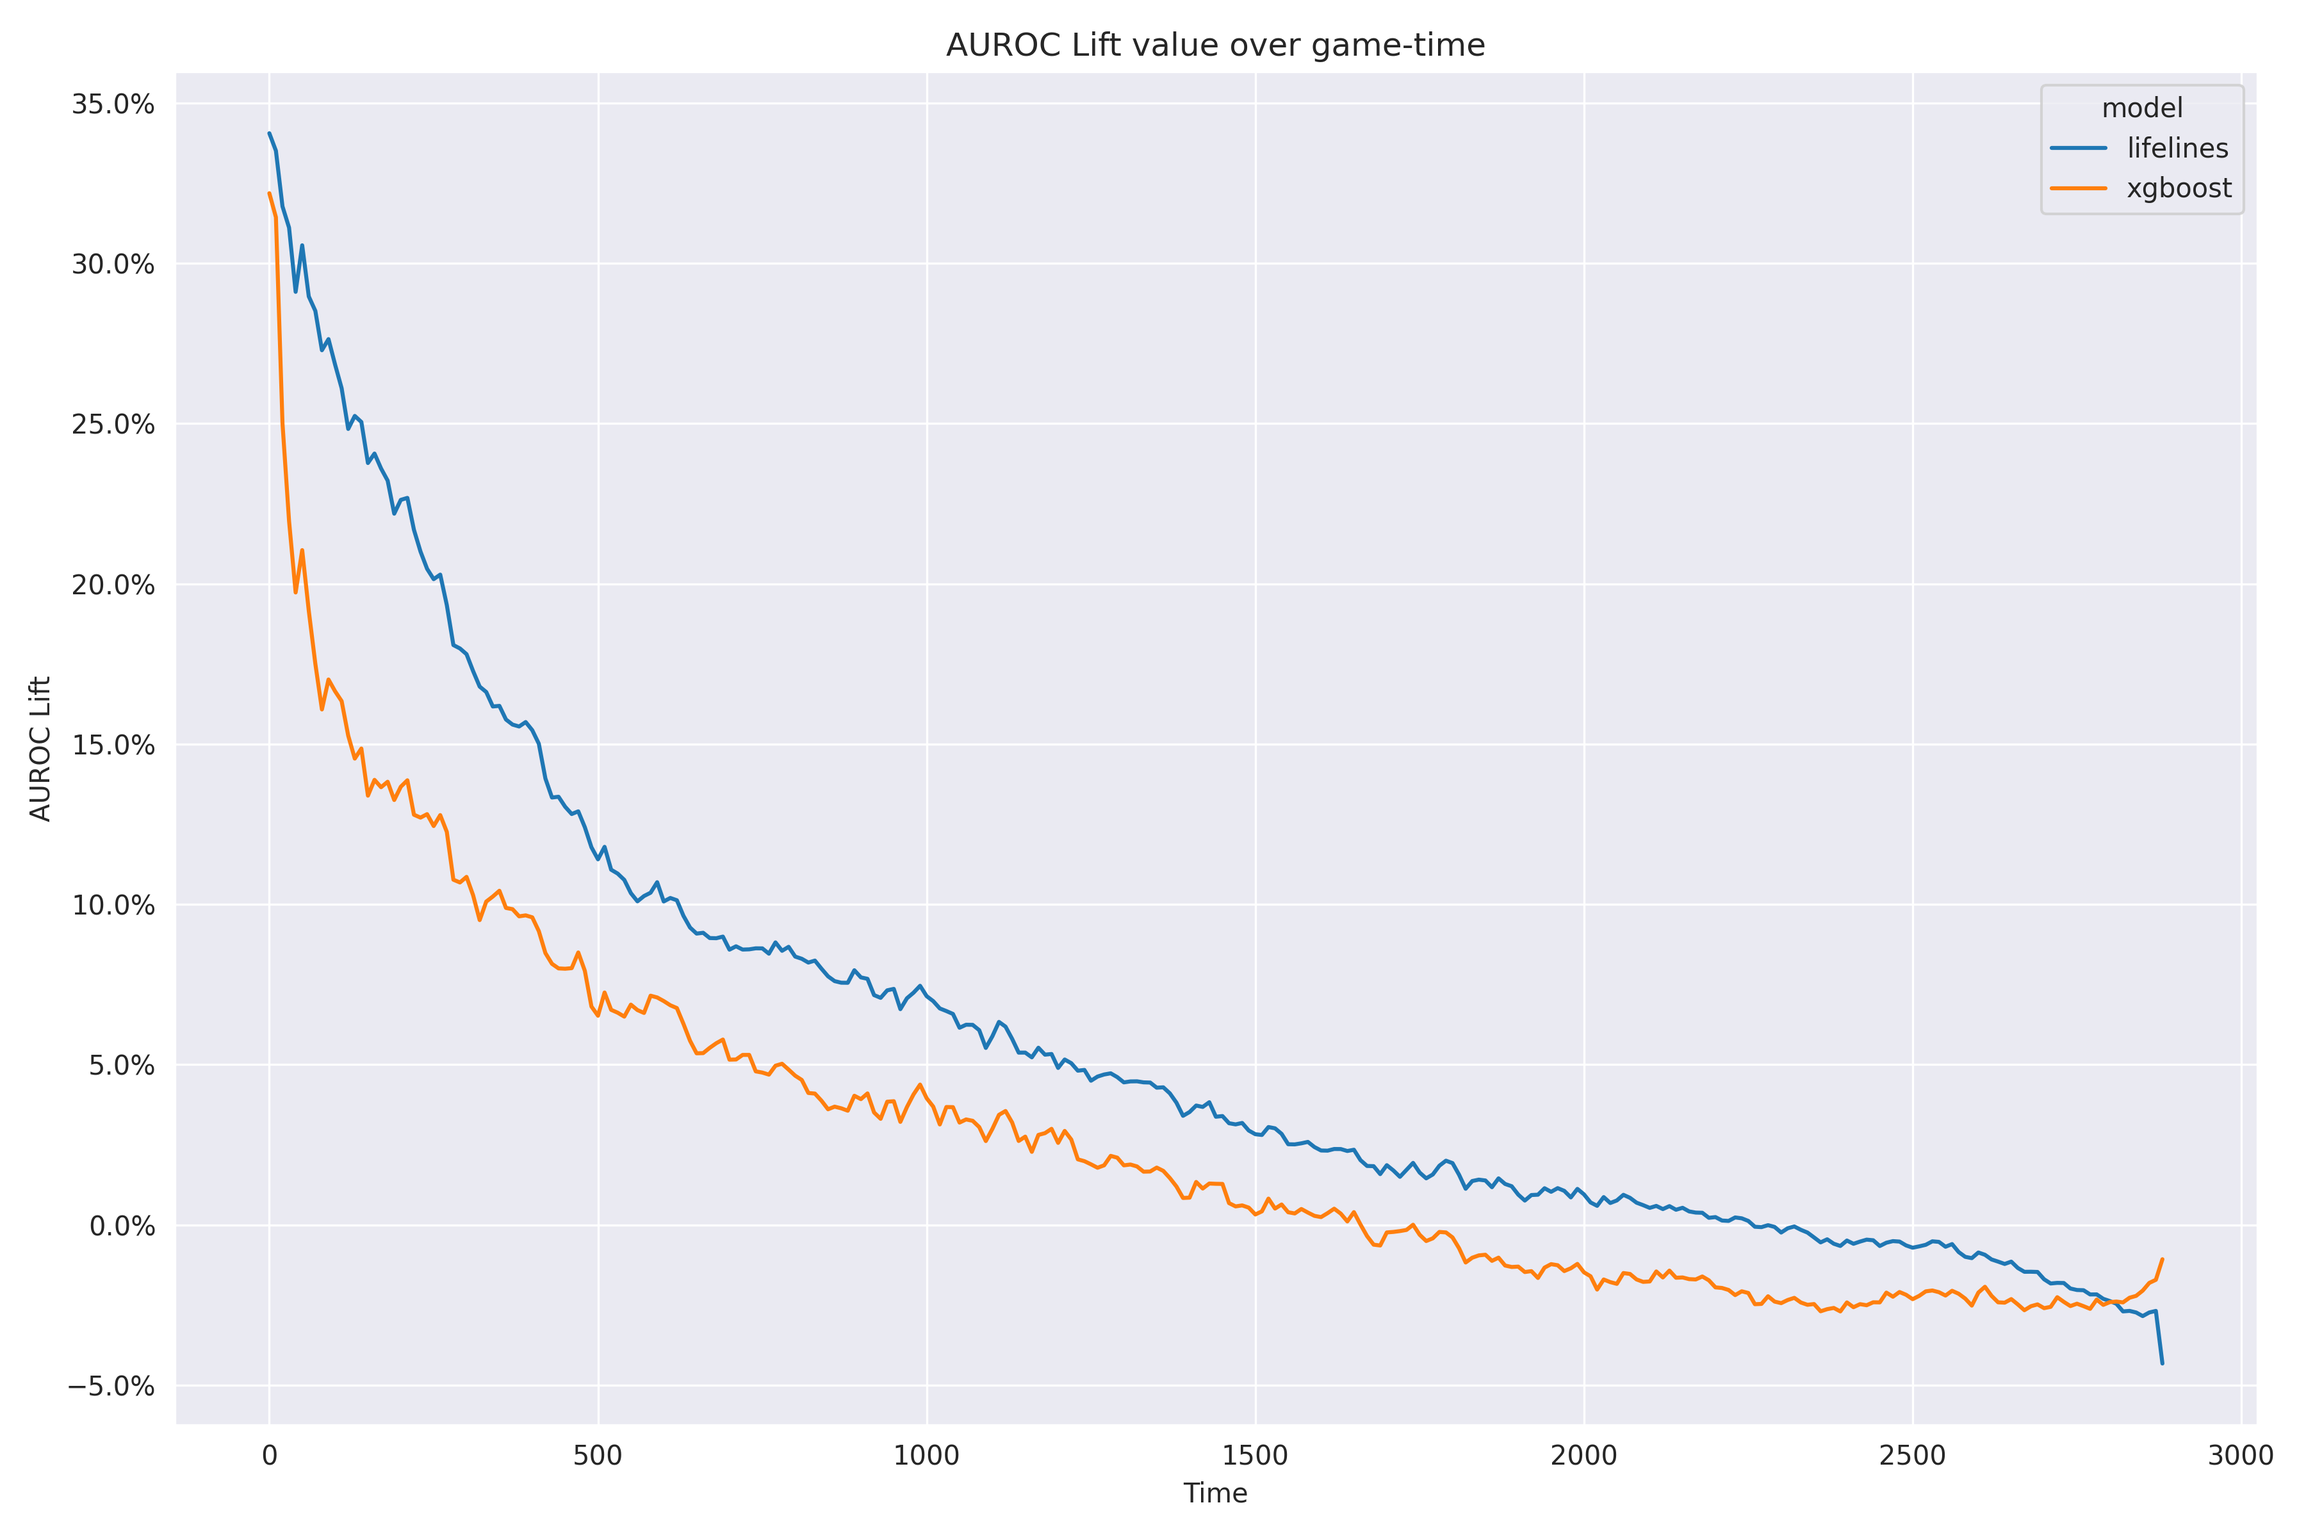
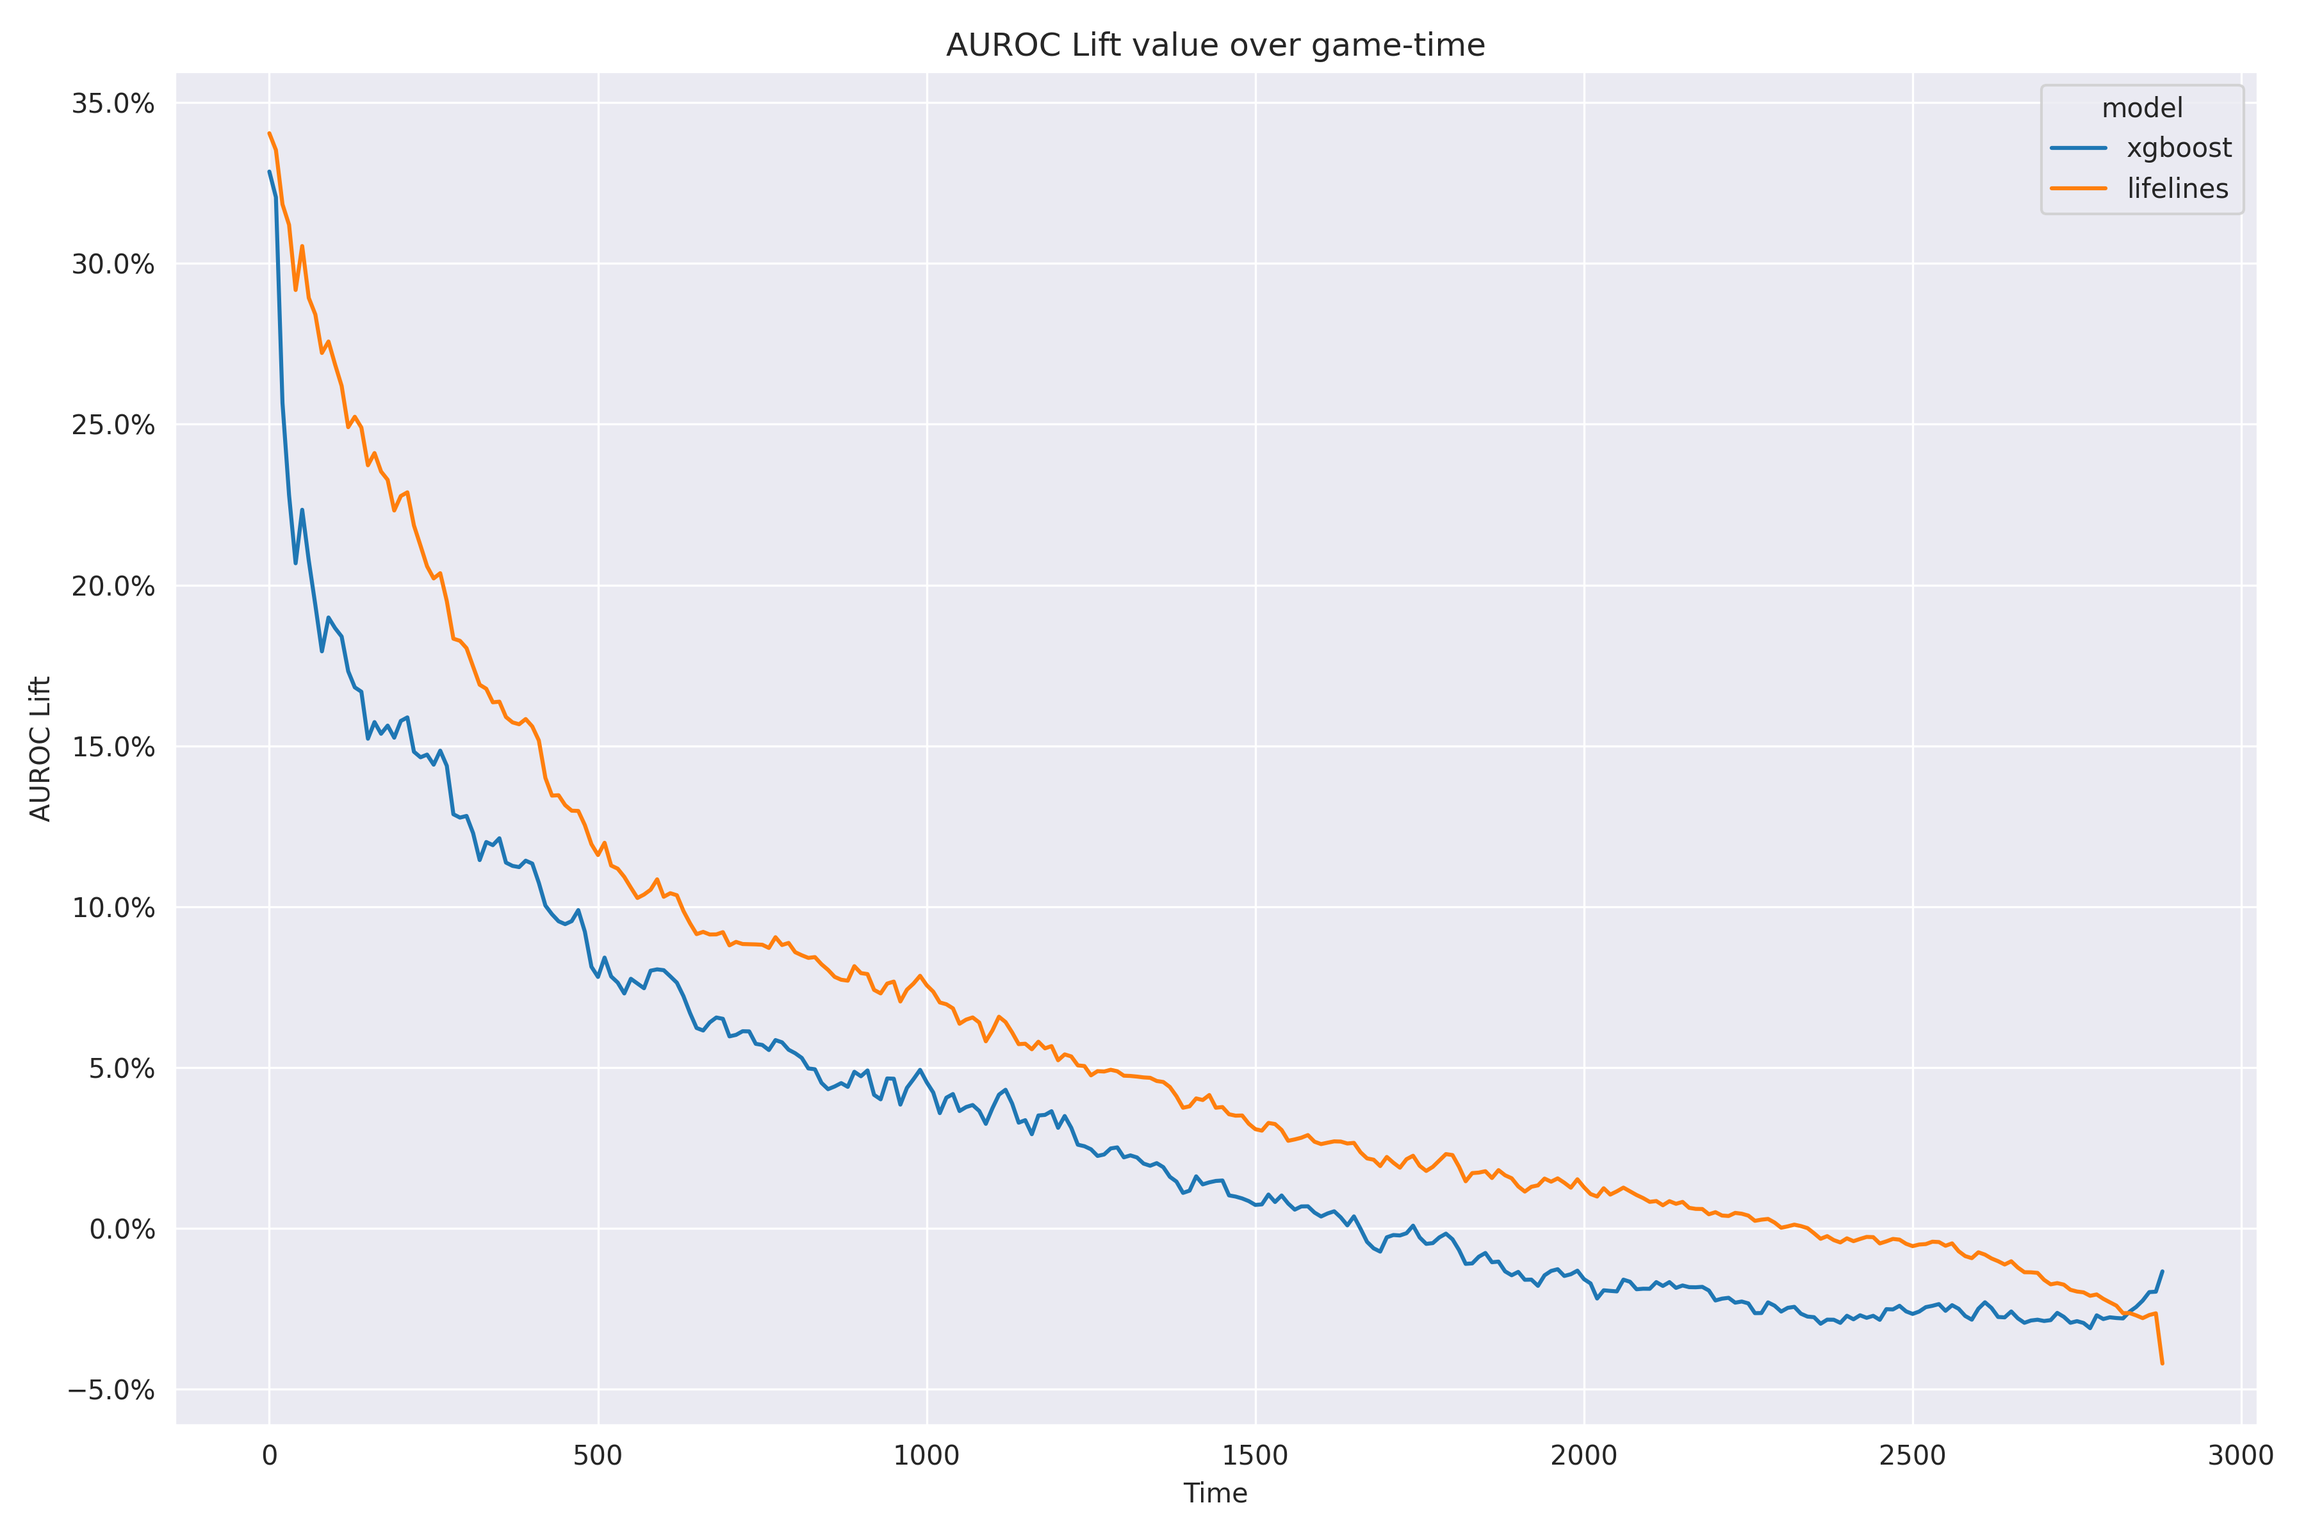
Fixing the calibration (#26)
* Adjusting the calibration to use the last row of the training data

* Fixing the calibration - using tuning-data style mapping to get accurate calibration curves

* Updating the XGBoost pipeline and reducing the hyperparameter tuning rounds

* Updating docs after final model fit

* Fixing static typing error

diff --git a/nbaspa/model/pipeline.py b/nbaspa/model/pipeline.py
@@ -119,6 +119,7 @@ def gen_lifelines_pipeline() -> Flow:
     # Create a time range for AUROC calculation -- start to the end of the fourth quarter
     times = np.arange(2890, step=10)
     # Initialize tasks
+    calib_data = CollapseData(name="Create calibration data")
     tune_data = CollapseData(name="Create tuning data")
     tuning = LifelinesTuning(
         name="Run lifelines hyperparameter tuning",
@@ -182,6 +183,7 @@ def gen_lifelines_pipeline() -> Flow:
         rawtune = load_df(data_dir=data_dir, dataset="tune.csv")
         # Collapse the data to the final row for Concordance calculations
         tune = tune_data.map(data=unmapped(rawtune), timestep=times)
+        calib_input = calib_data.map(data=unmapped(train), timestep=times)
         # Run hyperparameter tuning
         params = tuning(
             train_data=train, tune_data=tune, max_evals=max_evals, seed=seed
@@ -190,7 +192,7 @@ def gen_lifelines_pipeline() -> Flow:
         tuneplots(params["trials"])
         model_obj = model(params["best"])
         trained_model = trained(model=model_obj, data=train)
-        sprob = calc_sprob(model=trained_model, data=train)
+        sprob = calc_sprob.map(model=unmapped(trained_model), data=calib_input)
         iso = cal(train_data=sprob)
         _ = pcal(data=sprob, calibrator=iso)
 
@@ -212,6 +214,7 @@ def gen_xgboost_pipeline() -> Flow:
     # Create a time range for AUROC calculation -- start to the end of the fourth quarter
     times = np.arange(2890, step=10)
     # Initialize tasks
+    calib_data = CollapseData(name="Create calibration data")
     train_data = CollapseData(name="Create training data")
     tune_data = CollapseData(name="Create tuning data")
     stop_data = CollapseData(name="Create stopping data")
@@ -290,6 +293,7 @@ def gen_xgboost_pipeline() -> Flow:
         train = train_data(rawtrain)
         tune = tune_data.map(data=unmapped(rawtune), timestep=times)
         stop = stop_data(rawtune)
+        calib_input = calib_data.map(data=unmapped(rawtrain), timestep=times)
         # Run hyperparameter tuning
         params = tuning(
             train_data=train,
@@ -315,7 +319,7 @@ def gen_xgboost_pipeline() -> Flow:
         shap_values = calcshap(model=model, train_data=train)
         _ = plotshap(shap_values=shap_values)
         # Calibrate
-        sprob = calc_sprob(model=model, data=train)
+        sprob = calc_sprob.map(model=unmapped(model), data=calib_input)
         iso = cal(train_data=sprob)
         _ = pcal(data=sprob, calibrator=iso)
 

diff --git a/nbaspa/model/tasks/calibration.py b/nbaspa/model/tasks/calibration.py
@@ -1,5 +1,7 @@
 """Tasks for model calibration."""
 
+from typing import Union, List
+
 import pandas as pd
 from prefect import Task
 from sklearn.isotonic import IsotonicRegression
@@ -10,7 +12,9 @@ from .meta import META
 class CalibrateClassifier(Task):
     """Calibrate the classifier with ``IsotonicRegression``."""
 
-    def run(self, train_data: pd.DataFrame) -> IsotonicRegression:  # type: ignore
+    def run(  # type: ignore
+        self, train_data: Union[List[pd.DataFrame], pd.DataFrame]
+    ) -> IsotonicRegression:
         """Calibrate the classifier.
 
         Parameters
@@ -23,6 +27,8 @@ class CalibrateClassifier(Task):
         IsotonicRegression
             The fitted calibrator.
         """
+        if isinstance(train_data, list):
+            train_data = pd.concat(train_data, ignore_index=True)
         iso = IsotonicRegression(y_min=0, y_max=1, out_of_bounds="clip")
         iso.fit(train_data[META["survival"]], train_data[META["event"]])
 

diff --git a/nbaspa/model/tasks/visualization.py b/nbaspa/model/tasks/visualization.py
@@ -1,6 +1,6 @@
 """Create simple visualizations."""
 
-from typing import List, Optional
+from typing import List, Optional, Union
 
 from hyperopt import Trials
 import matplotlib.pyplot as plt
@@ -194,7 +194,7 @@ class PlotCalibration(Task):
 
     def run(  # type: ignore
         self,
-        data: pd.DataFrame,
+        data: Union[List[pd.DataFrame], pd.DataFrame],
         calibrator: IsotonicRegression,
     ):
         """Create a calibration curve.
@@ -211,6 +211,8 @@ class PlotCalibration(Task):
         Figure
             The matplotlib Figure object.
         """
+        if isinstance(data, list):
+            data = pd.concat(data, ignore_index=True)
         # Get the calibration curve for the raw model
         uncal_x, uncal_y = calibration_curve(
             data[META["event"]], data[META["survival"]], n_bins=10

diff --git a/nbaspa/model/tasks/tuning.py b/nbaspa/model/tasks/tuning.py
@@ -29,7 +29,7 @@ DEFAULT_XGBOOST_SPACE: Dict = {
     "reg_alpha": hp.uniform("reg_alpha", 0.6, 1),
     "reg_lambda": hp.uniform("reg_lambda", 0.25, 0.75),
     "colsample_bytree": hp.uniform("colsample_bytree", 0.5, 1),
-    "colsample_bylevel": hp.uniform("colsample_bylevel", 0.8, 1),
+    "colsample_bylevel": 1,
     "colsample_bynode": hp.uniform("colsample_bynode", 0, 0.5),
     "min_child_weight": hp.quniform("min_child_weight", 510, 530, 1),
     "monotone_constraints": str(

diff --git a/docs/_model/performance.rst b/docs/_model/performance.rst
@@ -8,7 +8,7 @@ Overview
 
 * Both models perform better (on average) than the NBA's model, with a particular advantage in
   early game prediction.
-* The Lifelines model far outperforms the XGBoost model.
+* The Lifelines model outperforms the XGBoost model.
 
 For generating player ratings, we will use the Lifelines model.
 
@@ -41,9 +41,9 @@ Overall, the average AUROC lift for each model is summarized below:
 | Model     | Average AUROC | Percentage lift over NBA model |
 |           |               |                                |
 +===========+===============+================================+
-| XGBoost   | 0.822         | 2.863%                         |
+| XGBoost   | 0.808         | 3.3%                           |
 +-----------+---------------+--------------------------------+
-| Lifelines | 0.845         | 6.102%                         |
+| Lifelines | 0.831         | 6.315%                         |
 +-----------+---------------+--------------------------------+
 
 ---------------------
@@ -67,45 +67,10 @@ Tuning led to the following final hyperparameters:
 | Hyperparameter | Value                |
 |                |                      |
 +================+======================+
-| ``l1_ratio``   | 0.007837377210952526 |
+| ``l1_ratio``   | 0.007994777879269076 |
 +----------------+----------------------+
-| ``penalizer``  | 0.09388117587887976  |
+| ``penalizer``  | 0.09127606625097757  |
 +----------------+----------------------+
-
-with the following variable coefficients:
-
-+----------------------------------+---------------+
-| Variable                         | Coefficient   |
-|                                  |               |
-+==================================+===============+
-| ``SCOREMARGIN``                  | 6.059660e-03  |
-+----------------------------------+---------------+
-| ``HOME_LINEUP_PLUS_MINUS``       | -6.037603e-08 |
-+----------------------------------+---------------+
-| ``VISITOR_LINEUP_PLUS_MINUS``    | -3.438323e-07 |
-+----------------------------------+---------------+
-| ``HOME_NET_RATING``              | 3.071953e-03  |
-+----------------------------------+---------------+
-| ``VISITOR_NET_RATING``           | -2.805900e-03 |
-+----------------------------------+---------------+
-| ``HOME_W_PCT``                   | 4.033127e-02  |
-+----------------------------------+---------------+
-| ``VISITOR_W_PCT``                | -4.164156e-02 |
-+----------------------------------+---------------+
-| ``LAST_GAME_WIN``                | 9.586388e-03  |
-+----------------------------------+---------------+
-| ``HOME_GAMES_IN_LAST_3_DAYS``    | -1.518382e-05 |
-+----------------------------------+---------------+
-| ``VISITOR_GAMES_IN_LAST_3_DAYS`` | 5.745046e-06  |
-+----------------------------------+---------------+
-| ``HOME_GAMES_IN_LAST_5_DAYS``    | -9.242708e-06 |
-+----------------------------------+---------------+
-| ``VISITOR_GAMES_IN_LAST_5_DAYS`` | 2.554729e-06  |
-+----------------------------------+---------------+
-| ``HOME_GAMES_IN_LAST_7_DAYS``    | -1.492246e-05 |
-+----------------------------------+---------------+
-| ``VISITOR_GAMES_IN_LAST_7_DAYS`` | 1.824475e-06  |
-+----------------------------------+---------------+
 
 Isotonic regression produced the following calibration plot:
 
@@ -130,29 +95,29 @@ Tuning led to the following hyperparameters:
 | Hyperparameter           | Value                                      |
 |                          |                                            |
 +==========================+============================================+
-| ``colsample_bylevel``    | 0.8313910793985154                         |
+| ``colsample_bylevel``    | 1                                          |
 +--------------------------+--------------------------------------------+
-| ``colsample_bynode``     | 0.091553664397192                          |
+| ``colsample_bynode``     | 0.15221691031911938                        |
 +--------------------------+--------------------------------------------+
-| ``colsample_bytree``     | 0.965672861241127                          |
+| ``colsample_bytree``     | 0.6308916896893483                         |
 +--------------------------+--------------------------------------------+
-| ``gamma``                | 0.751343370739138                          |
+| ``gamma``                | 0.8083332824721229                         |
 +--------------------------+--------------------------------------------+
-| ``learning_rate``        | 0.006071133731874241                       |
+| ``learning_rate``        | 0.0006959999989275942                      |
 +--------------------------+--------------------------------------------+
 | ``max_delta_step``       | 1                                          |
 +--------------------------+--------------------------------------------+
 | ``max_depth``            | 4                                          |
 +--------------------------+--------------------------------------------+
-| ``min_child_weight``     | 516                                        |
+| ``min_child_weight``     | 518                                        |
 +--------------------------+--------------------------------------------+
 | ``monotone_constraints`` | (0, 0, 0, 0, 0, 0, 0, 0, 0, 0, 0, 1, 0, 0) |
 +--------------------------+--------------------------------------------+
-| ``reg_alpha``            | 0.6748161854062196                         |
+| ``reg_alpha``            | 0.8166483270728037                         |
 +--------------------------+--------------------------------------------+
-| ``reg_lambda``           | 0.5767841610693845                         |
+| ``reg_lambda``           | 0.2533343088849453                         |
 +--------------------------+--------------------------------------------+
-| ``subsample``            | 0.5118933763828355                         |
+| ``subsample``            | 0.5043820990853263                         |
 +--------------------------+--------------------------------------------+
 
 Isotonic regression produced the following calibration plot:

diff --git a/docs/_model/modelfit.rst b/docs/_model/modelfit.rst
@@ -60,14 +60,14 @@ We will use the following hyperparameter search space for the ``lifelines`` mode
 
 To maximize the tuning search, we limited to the following space after some trials:
 
-+----------------+-----------------------+
-| Hyperparameter | Search space          |
-|                |                       |
-+================+=======================+
-| ``penalizer``  | :math:`Unif(0, 0.3)`  |
-+----------------+-----------------------+
-| ``l1_ratio``   | :math:`Unif(0, 0.01)` |
-+----------------+-----------------------+
++----------------+--------------------------+
+| Hyperparameter | Search space             |
+|                |                          |
++================+==========================+
+| ``penalizer``  | :math:`Unif(0.05, 0.15)` |
++----------------+--------------------------+
+| ``l1_ratio``   | :math:`Unif(0, 0.015)`   |
++----------------+--------------------------+
 
 ~~~~~~~
 XGBoost
@@ -126,7 +126,7 @@ After iteration, we used the following space:
 +-----------------------+-----------------------------+
 | ``colsample_bytree``  | :math:`Unif(0.5, 1)`        |
 +-----------------------+-----------------------------+
-| ``colsample_bylevel`` | :math:`Unif(0.8, 1)`        |
+| ``colsample_bylevel`` | 1                           |
 +-----------------------+-----------------------------+
 | ``colsample_bynode``  | :math:`Unif(0, 0.5)`        |
 +-----------------------+-----------------------------+
